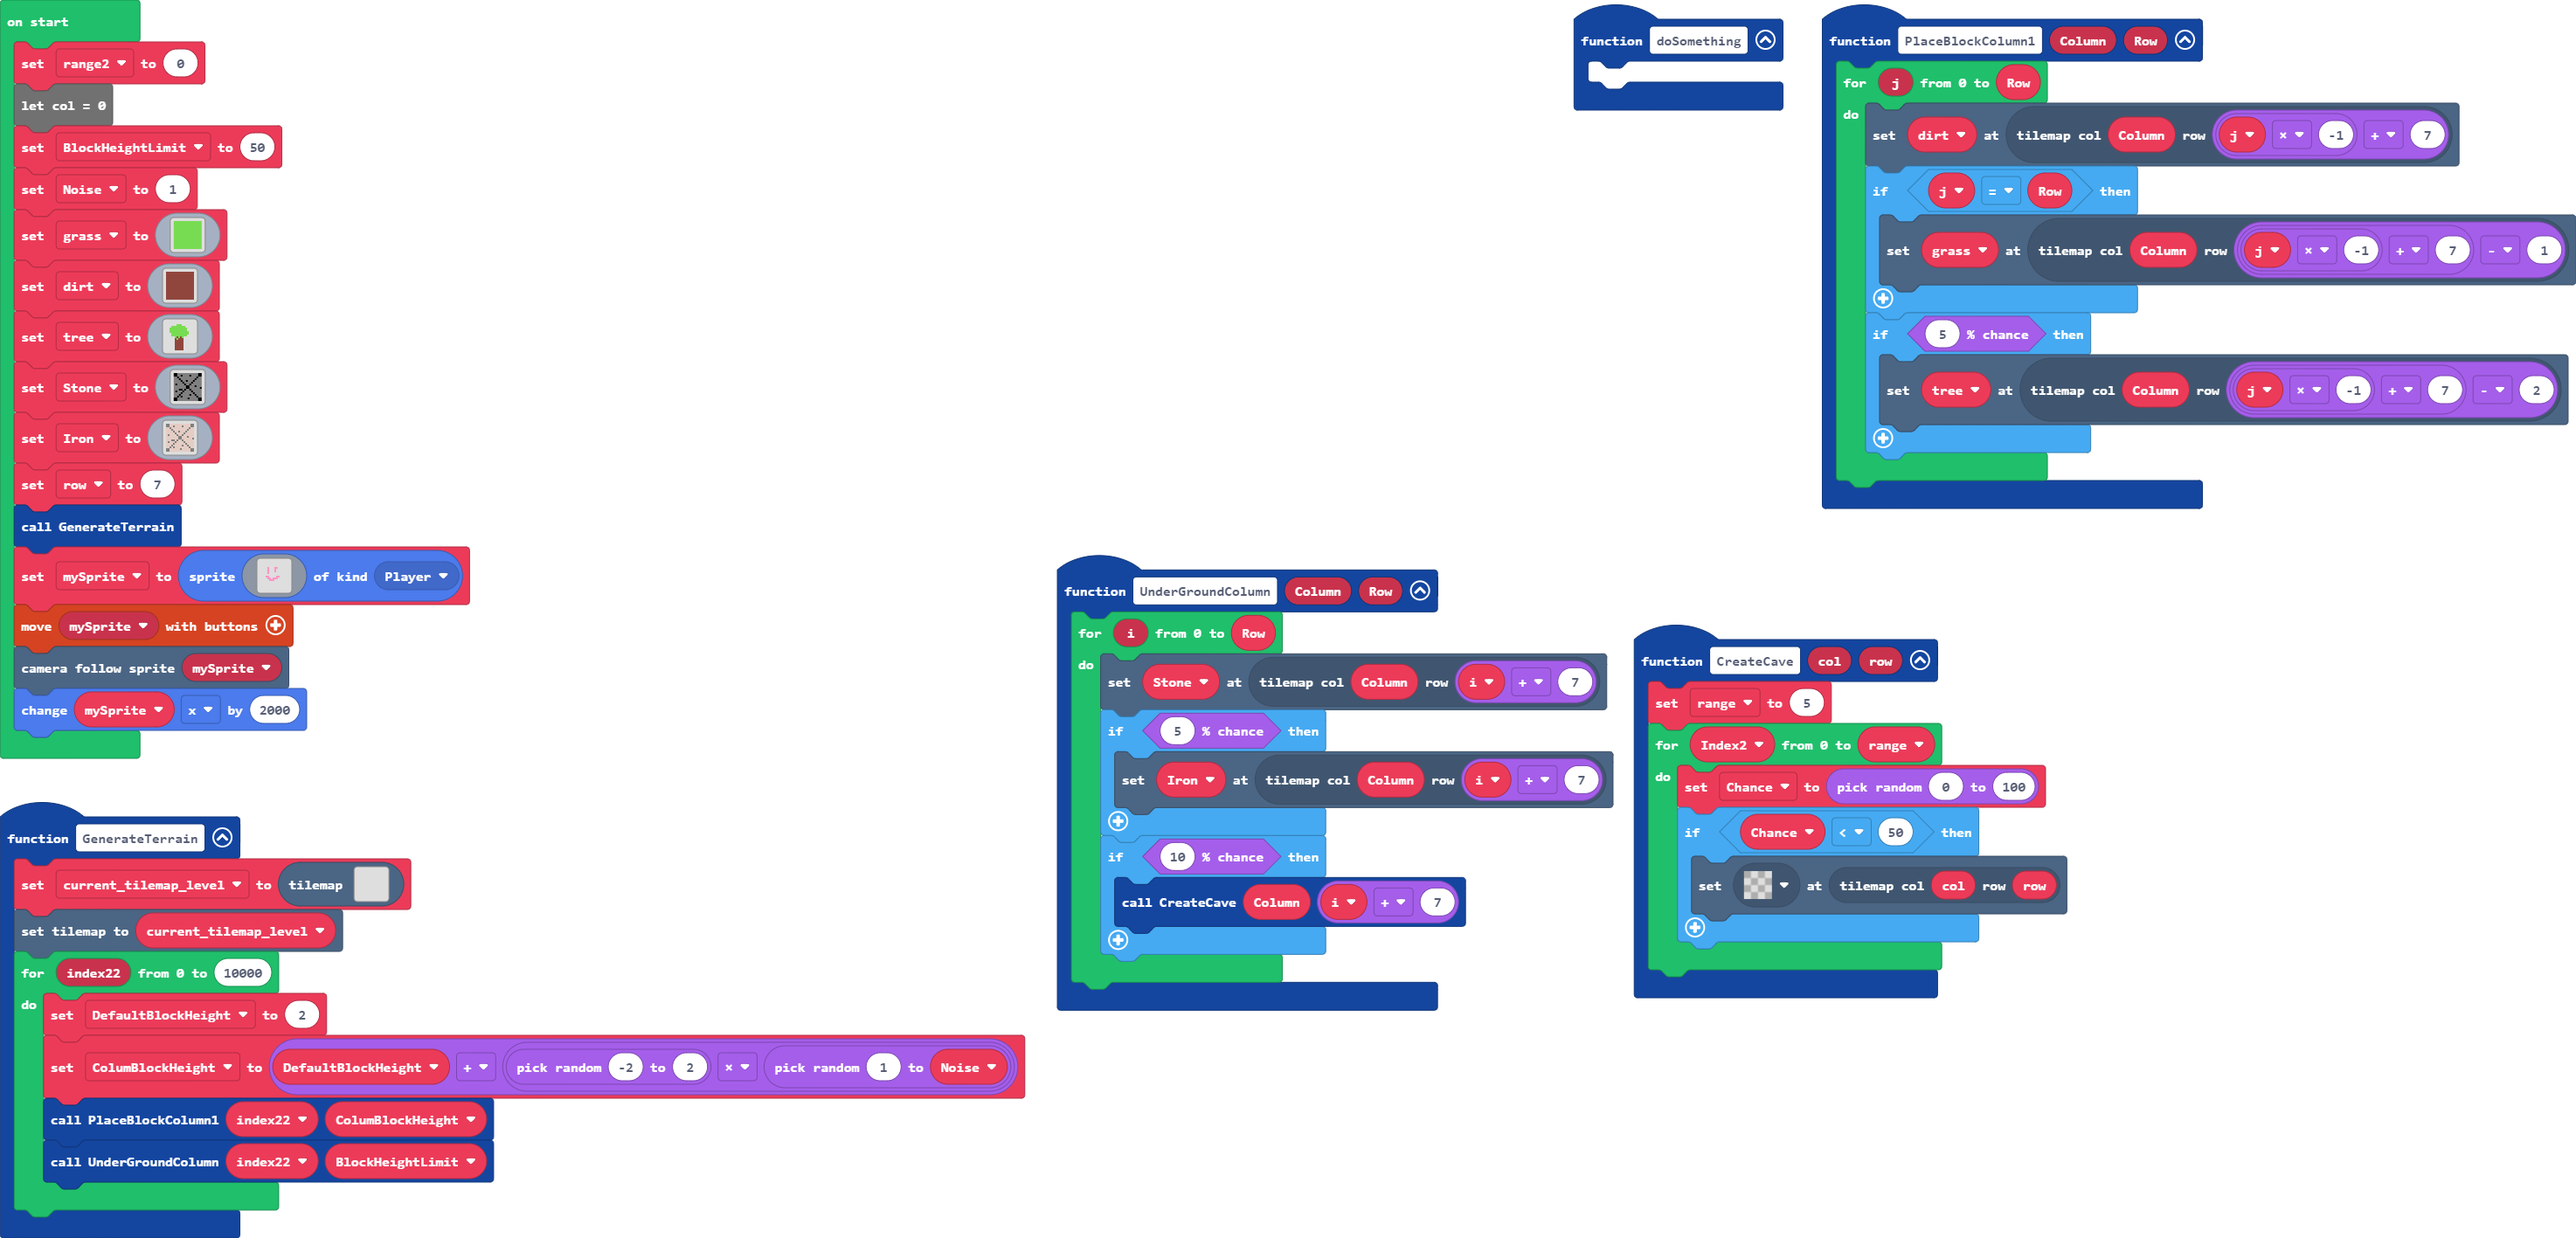
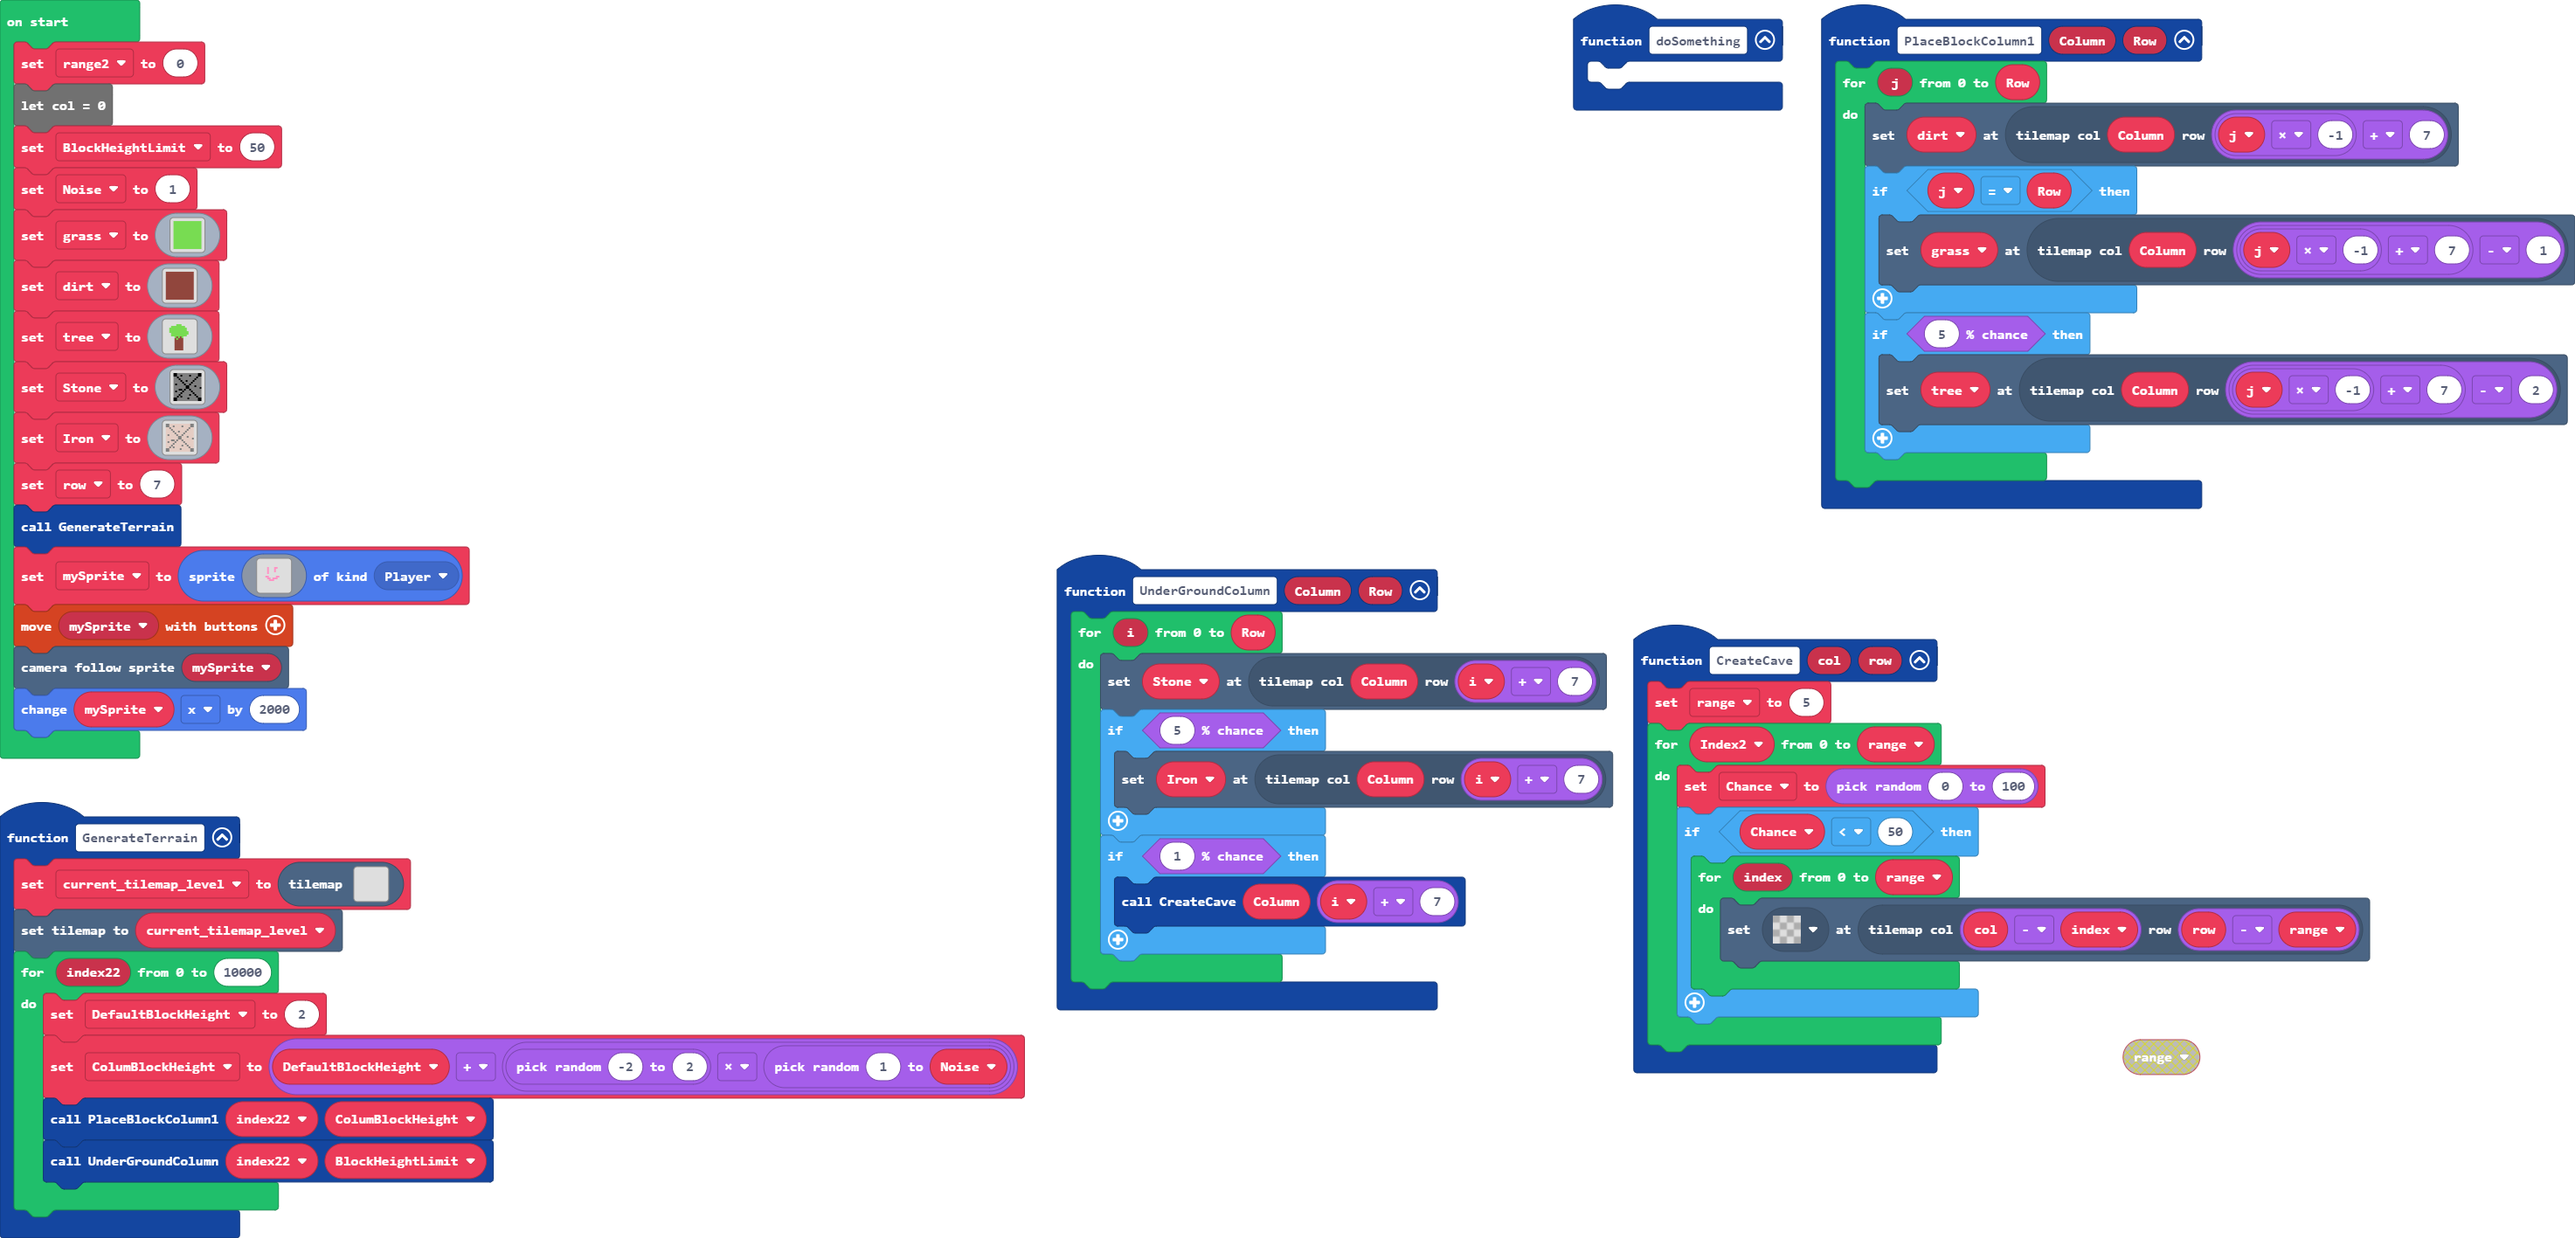
I made random generation for the underground

diff --git a/main.ts b/main.ts
@@ -6,7 +6,9 @@ function CreateCave (col: number, row: number) {
     for (let Index2 = 0; Index2 <= range; Index2++) {
         Chance = randint(0, 100)
         if (Chance < 50) {
-            tiles.setTileAt(tiles.getTileLocation(col, row), assets.tile`transparency16`)
+            for (let index = 0; index <= range; index++) {
+                tiles.setTileAt(tiles.getTileLocation(col - index, row - range), assets.tile`transparency16`)
+            }
         }
     }
 }
@@ -16,7 +18,7 @@ function UnderGroundColumn (Column: number, Row: number) {
         if (Math.percentChance(5)) {
             tiles.setTileAt(tiles.getTileLocation(Column, i + 7), Iron)
         }
-        if (Math.percentChance(10)) {
+        if (Math.percentChance(1)) {
             CreateCave(Column, i + 7)
         }
     }
